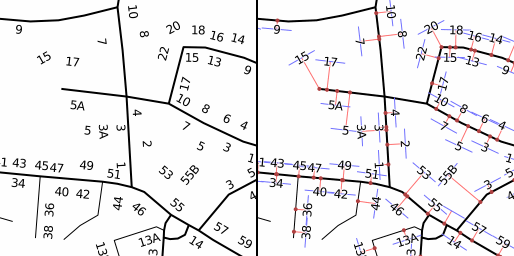
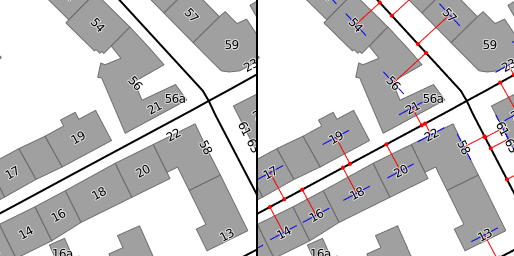
Examples: improve housenumbers
- check for correct name
- correct index (use road with index=0)
- show buildings

diff --git a/examples/README.md b/examples/README.md
@@ -160,15 +160,25 @@ Housenumbers
 ============
 Professional maps usually have the housenumbers rotated to be parallel to the associated street. The following mapcss file achieves this, by using an invisible line where the housenumber is printed on. The right image shows a "debug" view, where the construction of the "invisible" (here blue) line is shown. You can remove all statements marked with "DEBUG" from the mapcss file.
 
+&rarr; Try it online: [final solution](http://pgmapcss.openstreetbrowser.org/?style=7f913&zoom=18&lat=47.0693&lon=15.4530), [debug view](http://pgmapcss.openstreetbrowser.org/?style=9e088&zoom=18&lat=47.0693&lon=15.4530)
+
 ![housenumbers](housenumbers.png)
 ```css
 /* Housenumbers get the value of tag 'addr:housenumber' printed on them */
-point|z16-[addr:housenumber] {
+point|z16-[addr:housenumber],
+area|z16-[addr:housenumber] {
   text-color: #000000;
   text-halo-color: #ffffffaf;
   text-halo-radius: 1;
   text: eval(tag(addr:housenumber));
   z-index: 4;
+}
+
+/* Show buildings */
+area[building]::building {
+  fill-color: #a0a0a0;
+  width: 1;
+  color: #707070;
 }
 
 /* Highways will be shown with a black line */
@@ -190,46 +200,52 @@ line[highway=service] {
 /* Magic: all housenumbers in the vicinity (50px) of a highway get a class
    'has_highway' and the closest point on the highway near that housenumber
    will be calculated (as property 'geo' of pseudo element 'on_highway') */
-line[highway] near[index=1][distance<50] point|z16-[addr:housenumber]::on_highway {
-  geo: eval(line_interpolate_point(parent_geo(), line_locate_point(parent_geo(), prop(geo))));
+/* Use the centroid of the housenumber - the use GIS functions only accept points */
+line[highway][name][eval(parent_tag('name') == tag('addr:street'))] near[index=0][distance<50] point|z16-[addr:housenumber]::on_highway,
+line[highway][name][eval(parent_tag('name') == tag('addr:street'))] near[index=0][distance<50] area|z16-[addr:housenumber]::on_highway {
+  geo: eval(line_interpolate_point(parent_geo(), line_locate_point(parent_geo(), centroid(prop(geo)))));
   set .has_highway;
-}
-
-/* DEBUG: draw a red line between the housenumber and the 'on_highway' point */
-point.has_highway|z16-::housenumber_to_on_highway {
-  geo: eval(line(prop(geo, default), prop(geo, on_highway)));
-  width: 1px;
-  color: #ff7f7f;
-  z-index: 1;
 }
 
 /* For housenumbers with class 'has_highway' a perpendicular vector to the line
    between the housenumber point and the 'on_highway' point with a length of
    30px is constructed. The housenumber is print on the line (text-position).
    */
-point.has_highway|z16-[addr:housenumber] {
+point.has_highway|z16-[addr:housenumber],
+area.has_highway|z16-[addr:housenumber] {
   geo: eval(rotate(line(
-	translate(prop(geo), '15px', 0),
-	translate(prop(geo), '-15px', 0)
+    translate(centroid(prop(geo)), '15px', 0),
+    translate(centroid(prop(geo)), '-15px', 0)
       ),
-      0-azimuth(prop(geo), prop(geo, on_highway))
+      0-azimuth(centroid(prop(geo)), prop(geo, on_highway))
     ));
   text-position: line;
 }
 
+/* DEBUG: draw a red line between the housenumber and the 'on_highway' point */
+point.has_highway|z16-::housenumber_to_on_highway,
+area.has_highway|z16-::housenumber_to_on_highway {
+  geo: eval(line(centroid(prop(geo, default)), prop(geo, on_highway)));
+  width: 1px;
+  color: red;
+  z-index: 1;
+}
+
 /* DEBUG: draw a line where the housenumber gets printed on */
-point.has_highway|z16-[addr:housenumber]::housenumber_line {
+point.has_highway|z16-[addr:housenumber]::housenumber_line,
+area.has_highway|z16-[addr:housenumber]::housenumber_line {
   geo: eval(prop(geo, default));
-  color: #7f7fff;
+  color: blue;
   width: 1px;
   z-index: 2;
 }
 
 /* DEBUG: show a big dot on the 'on_highway' point */
-point.has_highway|z16-::on_highway {
+point.has_highway|z16-::on_highway,
+area.has_highway|z16-::on_highway {
   geo: eval(buffer(prop(geo), 2px));
-  fill-color: #af3f3f;
-  z-index: 3;
+  fill-color: red;
+  layer: 10;
 }
 ```
 

diff --git a/examples/housenumbers.md b/examples/housenumbers.md
@@ -1,3 +1,5 @@
 Housenumbers
 ============
 Professional maps usually have the housenumbers rotated to be parallel to the associated street. The following mapcss file achieves this, by using an invisible line where the housenumber is printed on. The right image shows a "debug" view, where the construction of the "invisible" (here blue) line is shown. You can remove all statements marked with "DEBUG" from the mapcss file.
+
+&rarr; Try it online: [final solution](http://pgmapcss.openstreetbrowser.org/?style=7f913&zoom=18&lat=47.0693&lon=15.4530), [debug view](http://pgmapcss.openstreetbrowser.org/?style=9e088&zoom=18&lat=47.0693&lon=15.4530)
